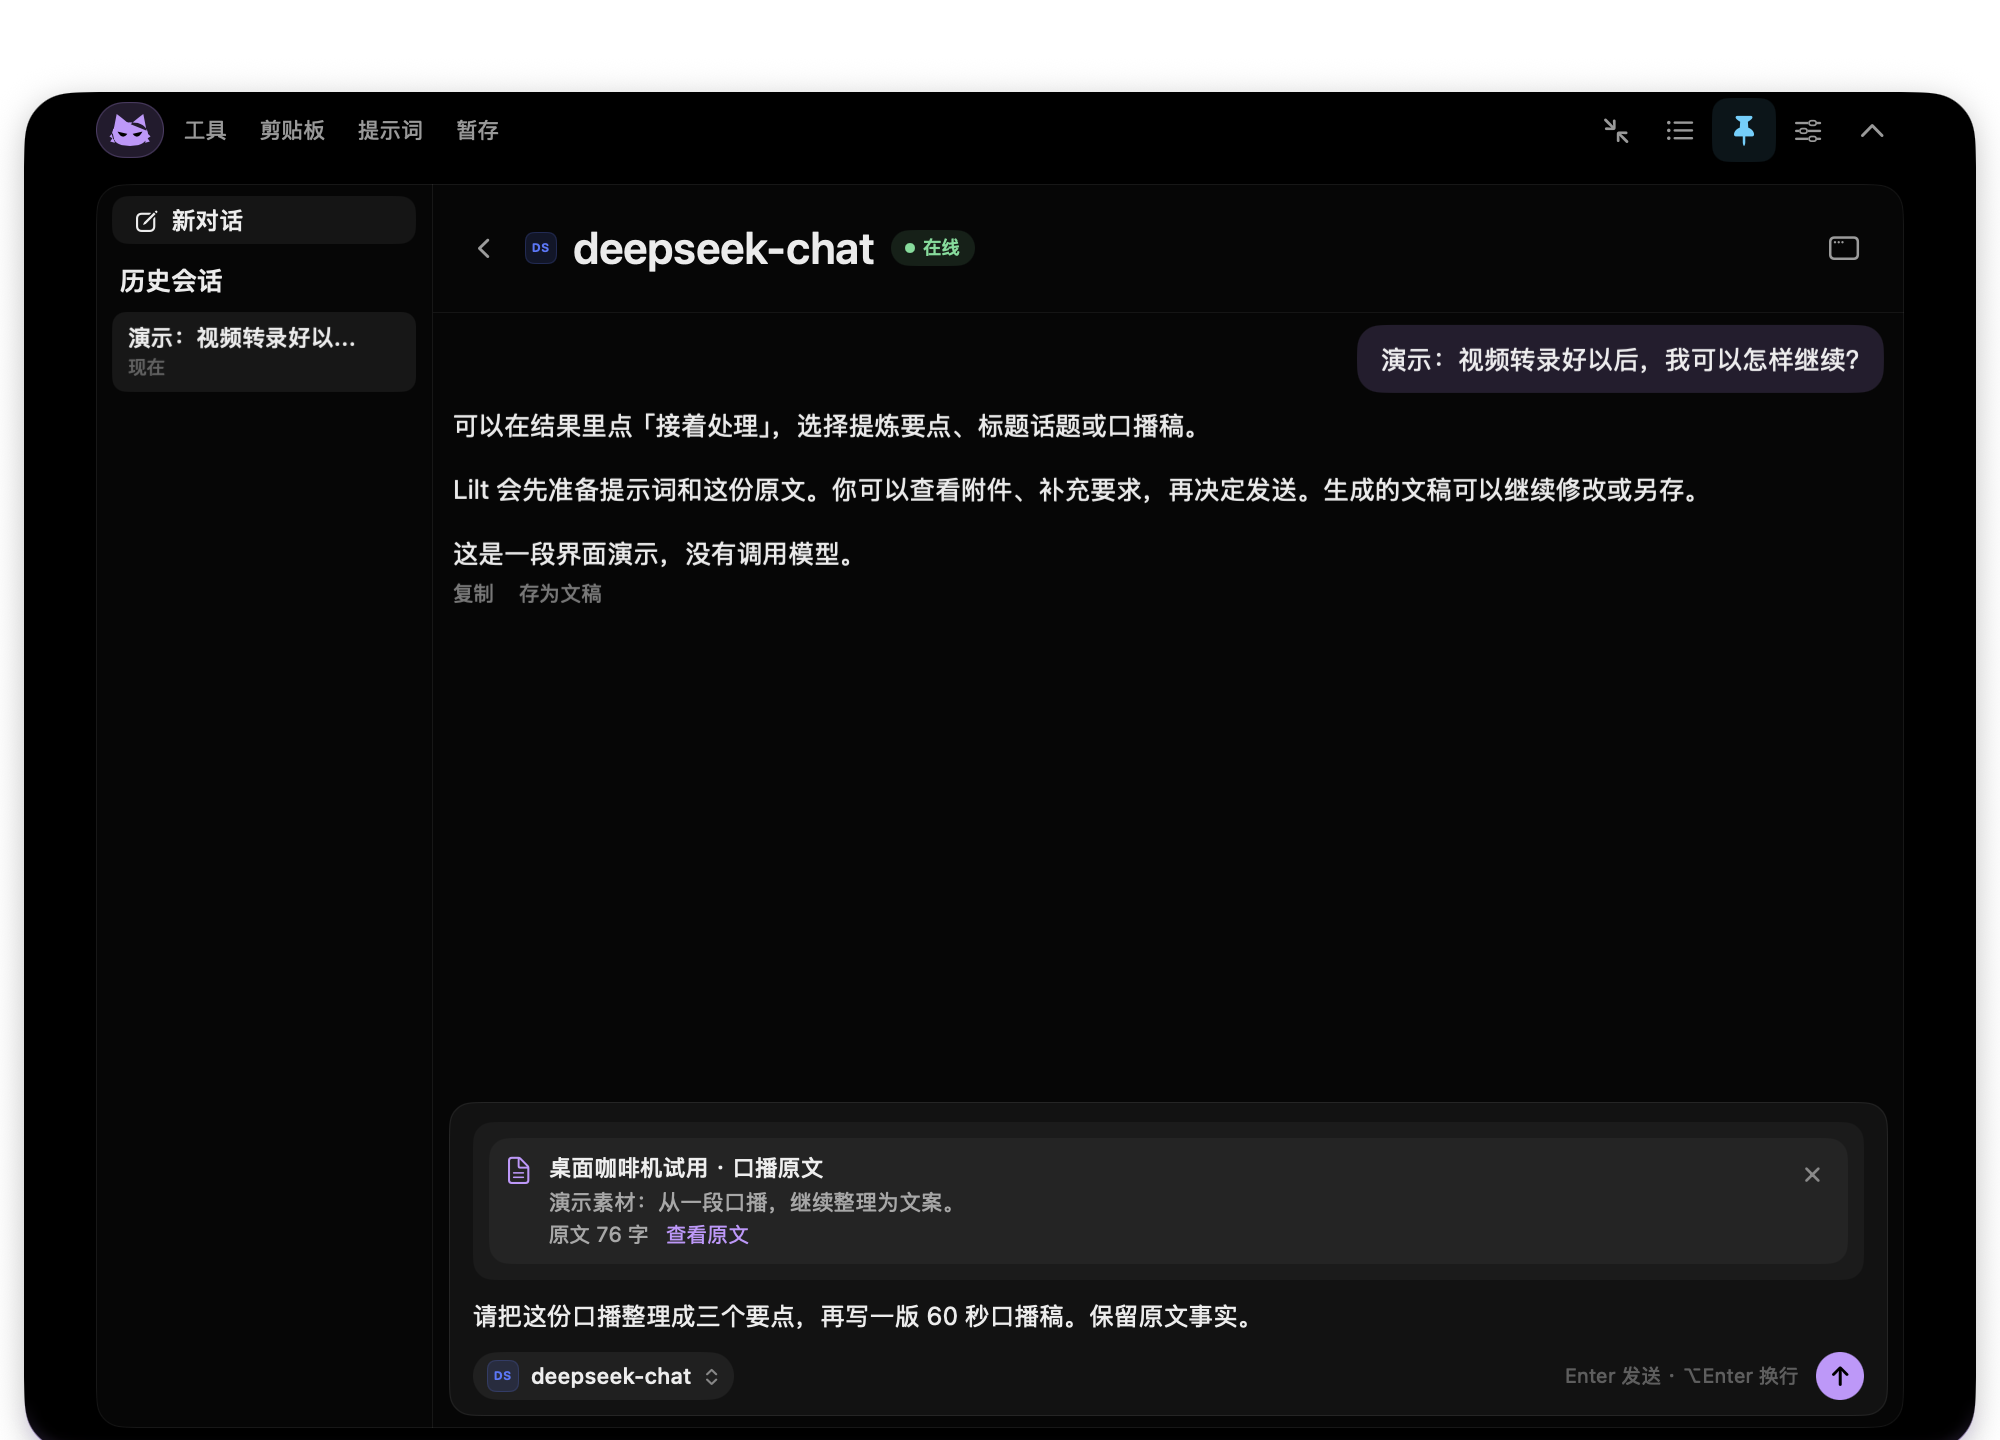
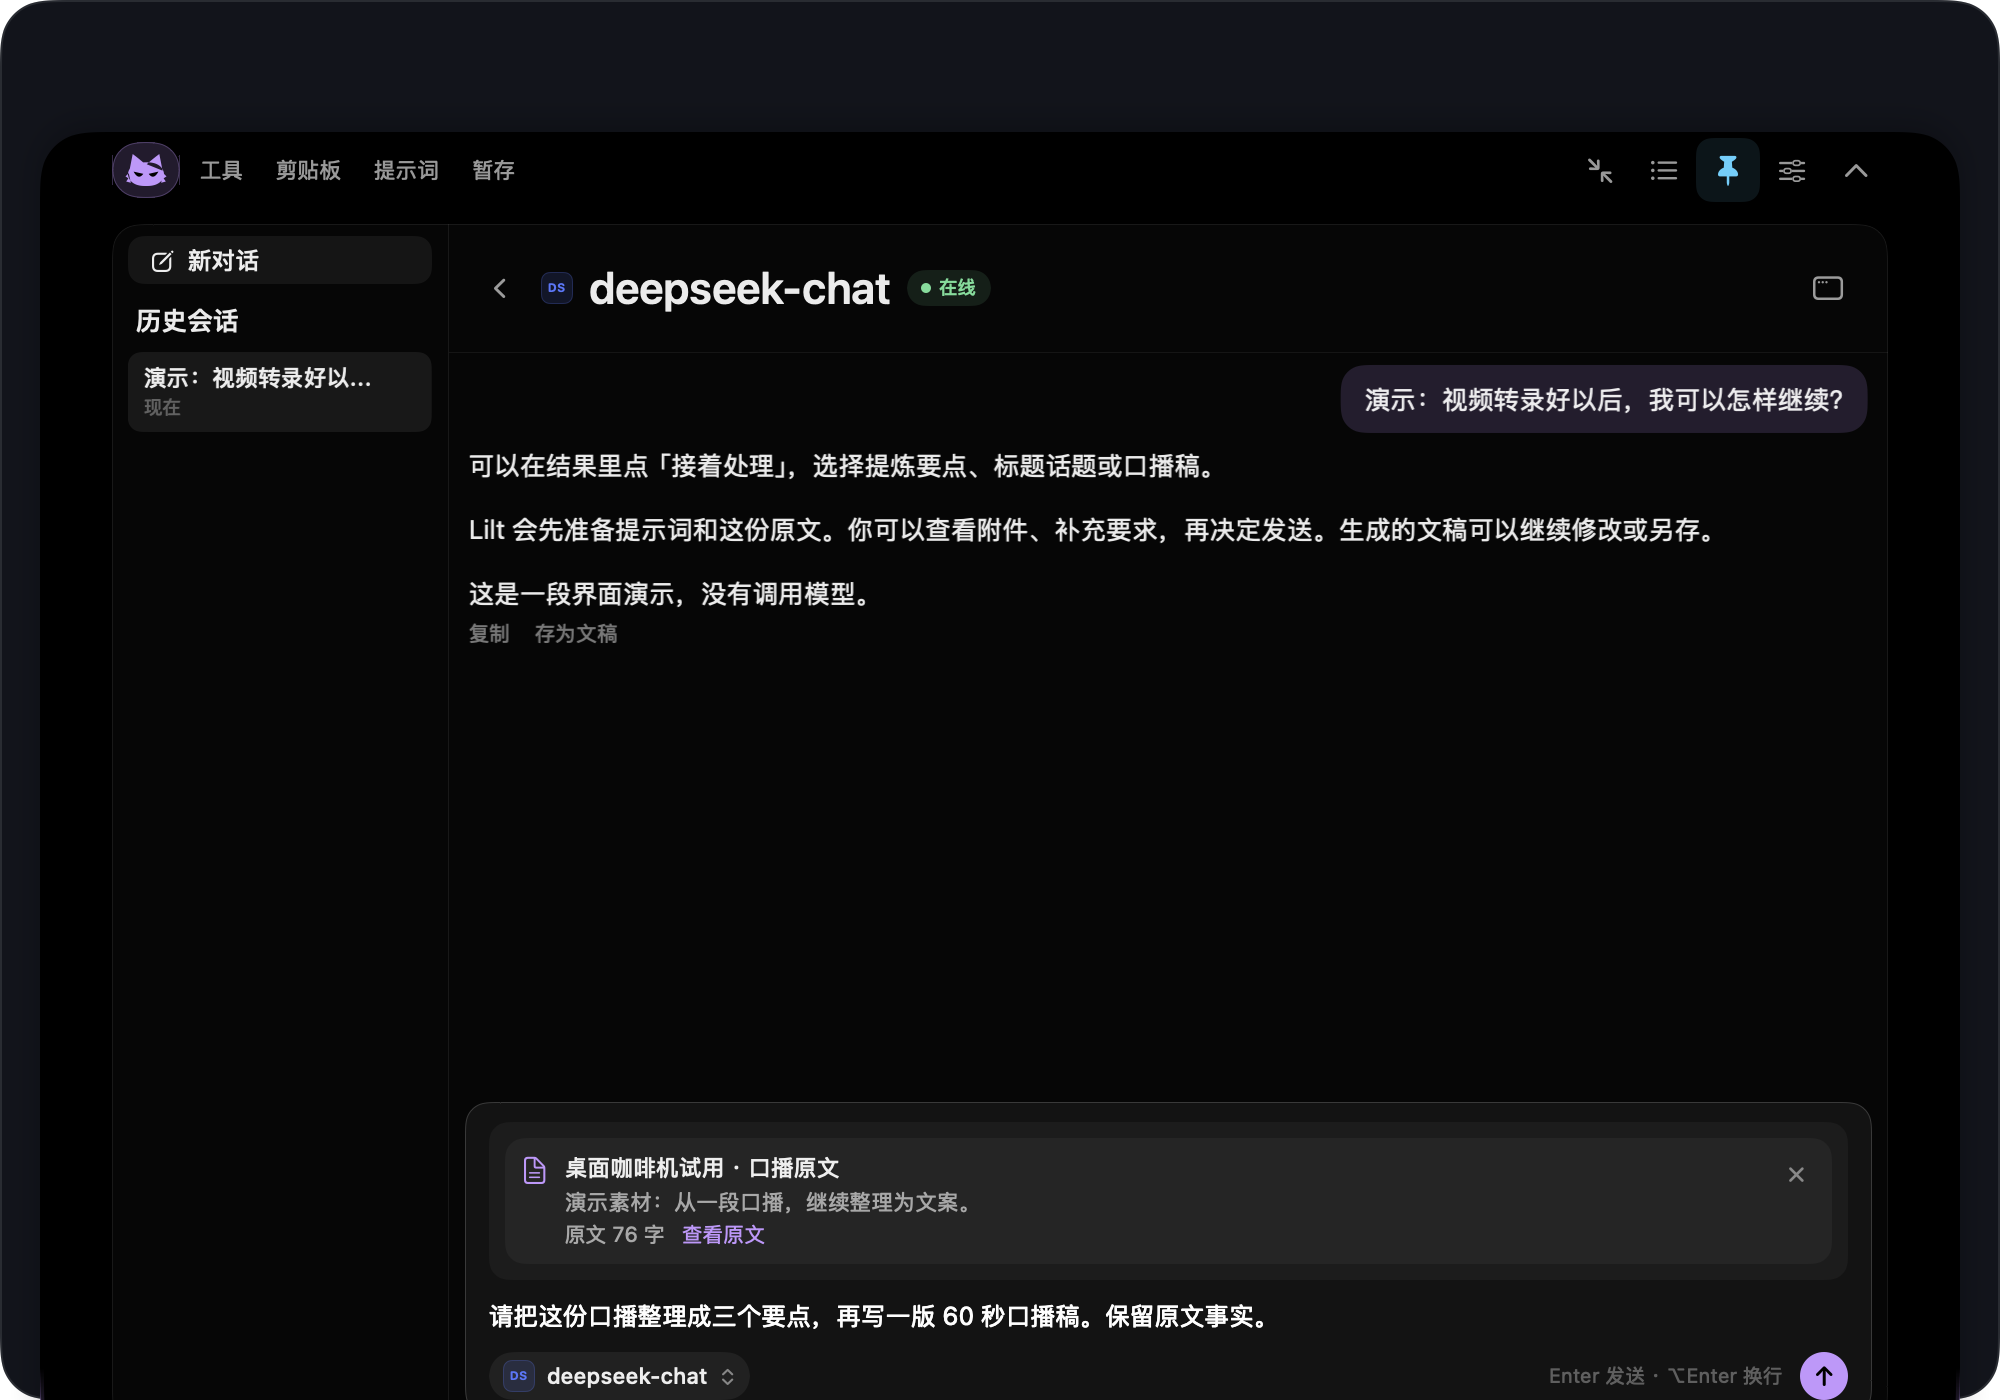
docs: showcase Dynamic Island core workflows and update to v0.5.12

diff --git a/docs/VERIFICATION.md b/docs/VERIFICATION.md
@@ -1,23 +1,22 @@
-# Lilt 0.5.11 验证范围
+# Lilt 0.5.12 验证范围
 
-本页对应 **0.5.11 / build 25**，Apple Silicon、macOS 14+。记录验证范围，便于试用时区分已检查的行为和需要真实环境反馈的部分。
+本页对应 **0.5.12 / build 26**，Apple Silicon、macOS 14+。记录验证范围，便于试用时区分已检查的行为和需要真实环境反馈的部分。
 
 ## 已完成
 
 | 范围 | 结果 |
 | --- | --- |
-| Agent 执行边界、长任务与上下文恢复 | 31 / 31 |
-| 素材、文案、转录与结果交接 | 25 / 25 |
-| 实际轮廓动画：中间帧、过冲、跳变、窗口稳定性 | 16 / 16 |
-| 七步跟随引导及窗口边界 | 18 / 18 |
-| 指定窗口与输入框尺寸案例 | 5 / 5 |
-| 合计 | **95 / 95** |
+| 离线契约：存储容错备份、0600 原子写入、MCP 路径边界与冷却防绕过 | 36 / 36 |
+| 工作流、Agent 工具确认、实际轮廓动画与七步跟随引导 | 74 / 74 |
+| 原生自检与灵动岛 / 工作台布局矩阵 | 229 / 229 |
+| 本机处理引擎集成检查 | 43 / 43 |
+| 合计 | **382 / 382** |
 
-这些是定向离线检查，使用脚本化模型回复驱动实际执行循环，不向收费服务发请求。本轮未重跑完整全量矩阵。
+这些是本机隔离环境检查，使用脚本化模型回复和本地测试夹具驱动实际执行循环，不向收费服务发请求。
 
 安装到 `/Applications/Lilt.app` 后核对版本、文件复制、可执行文件摘要、deep-strict 签名，并确认正式进程启动和原生窗口显示。
 
-DMG 另完成磁盘校验、只读挂载、应用内文件与符号链接逐项比对、签名、MCP 入口和处理运行组件 Dock 策略检查。当前 MCP 仍保留兼容的 `material_*` 工具 ID。
+DMG 另完成 LZMA 压缩打包（体积较 0.5.11 缩减 27% 至 182 MB）、磁盘校验、只读挂载、应用内文件与符号链接逐项比对、签名、MCP 入口和处理运行组件 Dock 策略检查。当前 MCP 仍保留兼容的 `material_*` 工具 ID。
 
 ## 发布文件摘要
 
@@ -25,9 +24,9 @@ SHA-256：
 
 | 文件 | 摘要 |
 | --- | --- |
[6 lines of base64/hex data omitted]
 
 普通安装请选择 DMG。ZIP 与 `appcast.json` 主要用于应用内自动更新，后者包含版本、大小、摘要和发布签名。
 
@@ -47,6 +46,6 @@ App 当前使用本机开发签名，尚未经过 Apple 公证。首次打开可
 
 自动更新另使用发布签名和摘要校验。这验证更新来源与内容，不等于 Apple Developer ID 签名或公证。
 
-首页截图来自当前原生界面，素材、对话和模型配置为演示用途，没有调用收费模型。它们展示交接与界面布局，不作为真实模型质量评测。
+首页截图来自当前原生界面，素材、对话和模型配置为演示用途，没有调用收费模型。它们展示灵动岛形态、素材交接与界面布局，不作为真实模型质量评测。
 
 [返回首页](../README.md) · [快速上手](QUICKSTART.md) · [反馈问题](https://github.com/limyum-creator/lilt-releases/issues/new/choose)

diff --git a/docs/QUICKSTART.md b/docs/QUICKSTART.md
@@ -2,7 +2,7 @@
 
 [返回首页](../README.md) · [下载最新版](https://github.com/limyum-creator/lilt-releases/releases/latest)
 
-适用于 Apple Silicon（M1 及更新芯片）、macOS 14+。当前测试版为 **0.5.11 / build 25**。
+适用于 Apple Silicon（M1 及更新芯片）、macOS 14+。当前测试版为 **0.5.12 / build 26**。
 
 ## 安装与打开
 
